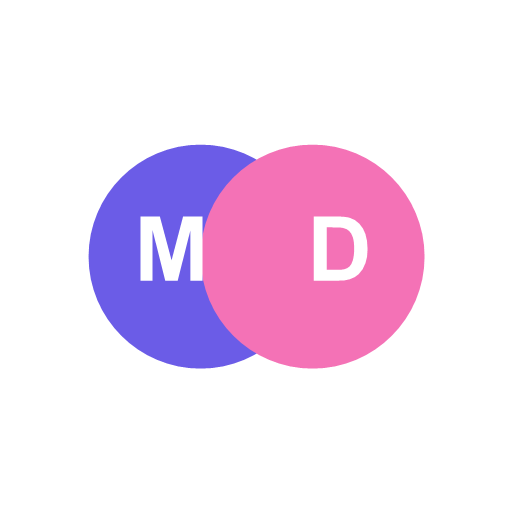
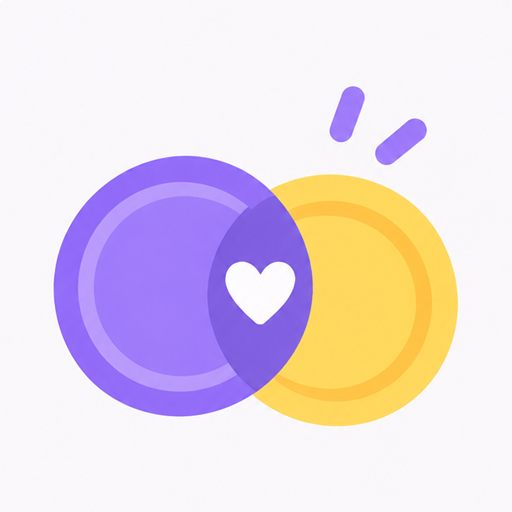
feat: 앱 아이콘을 새 디자인으로 교체하고 favicon을 PNG로 변경

diff --git a/index.html b/index.html
@@ -3,7 +3,7 @@
   <head>
     <meta charset="UTF-8" />
     <link href="https://fonts.googleapis.com/css2?family=Nunito:wght@400;700;800;900&family=Gaegu:wght@700&display=swap" rel="stylesheet">
-    <link rel="icon" type="image/svg+xml" href="/favicon.svg" />
+    <link rel="icon" type="image/png" href="/favicon.png" />
     <link rel="manifest" href="/manifest.webmanifest" />
     <link rel="apple-touch-icon" href="/apple-touch-icon.png" />
     <meta name="theme-color" content="#6B5CE7" />
